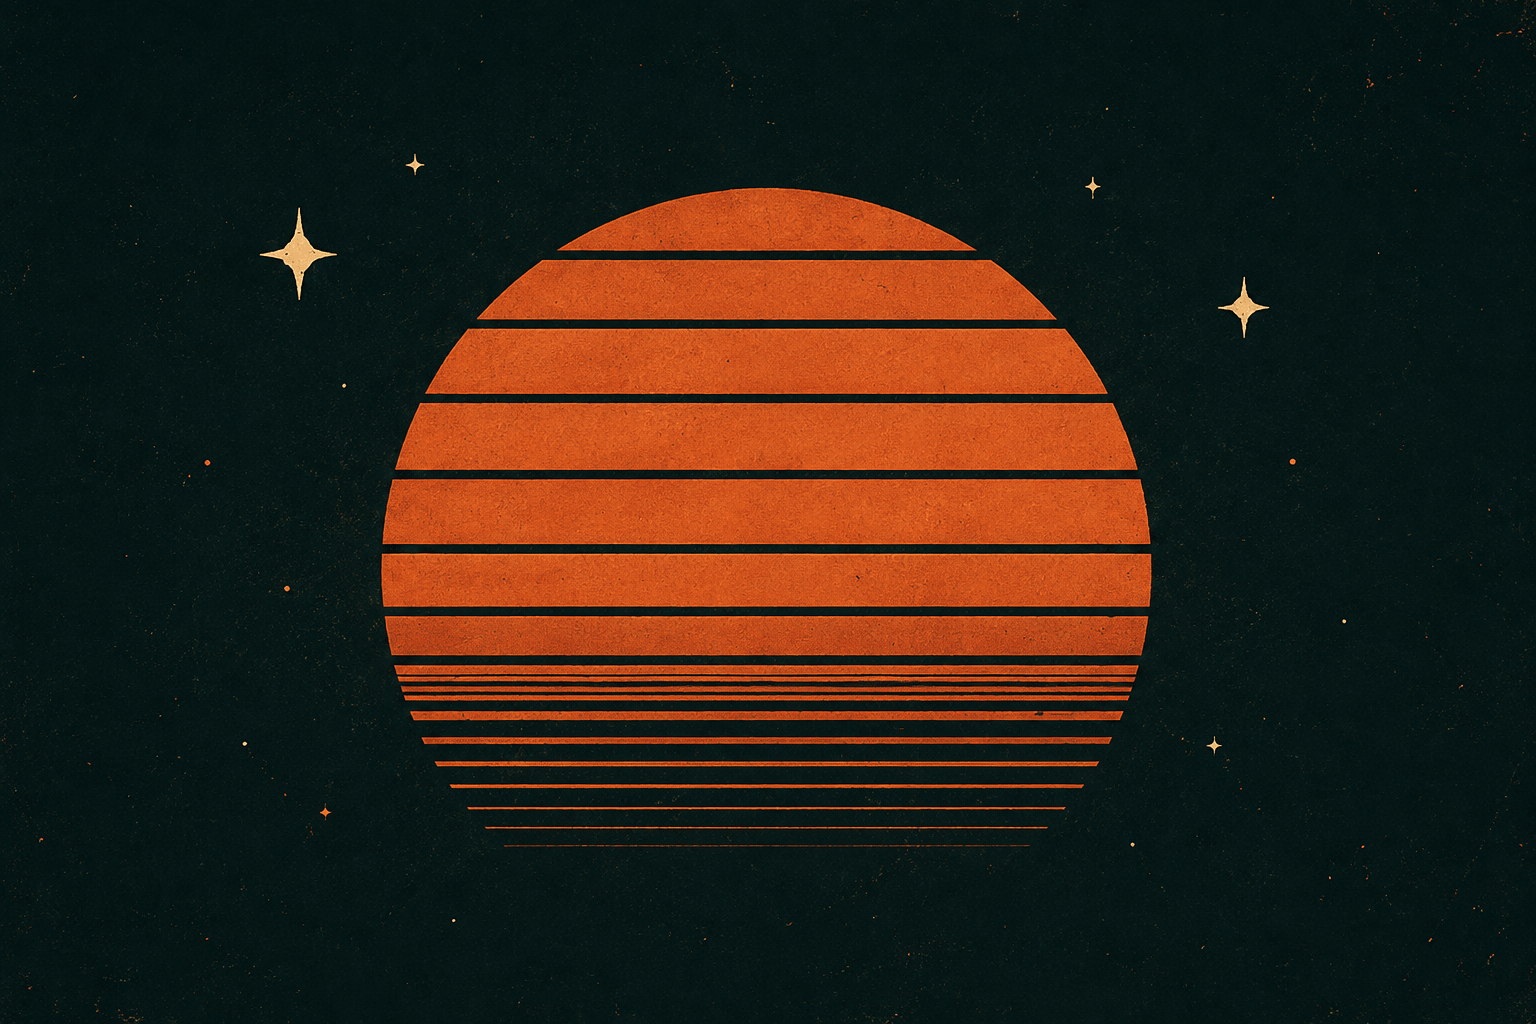
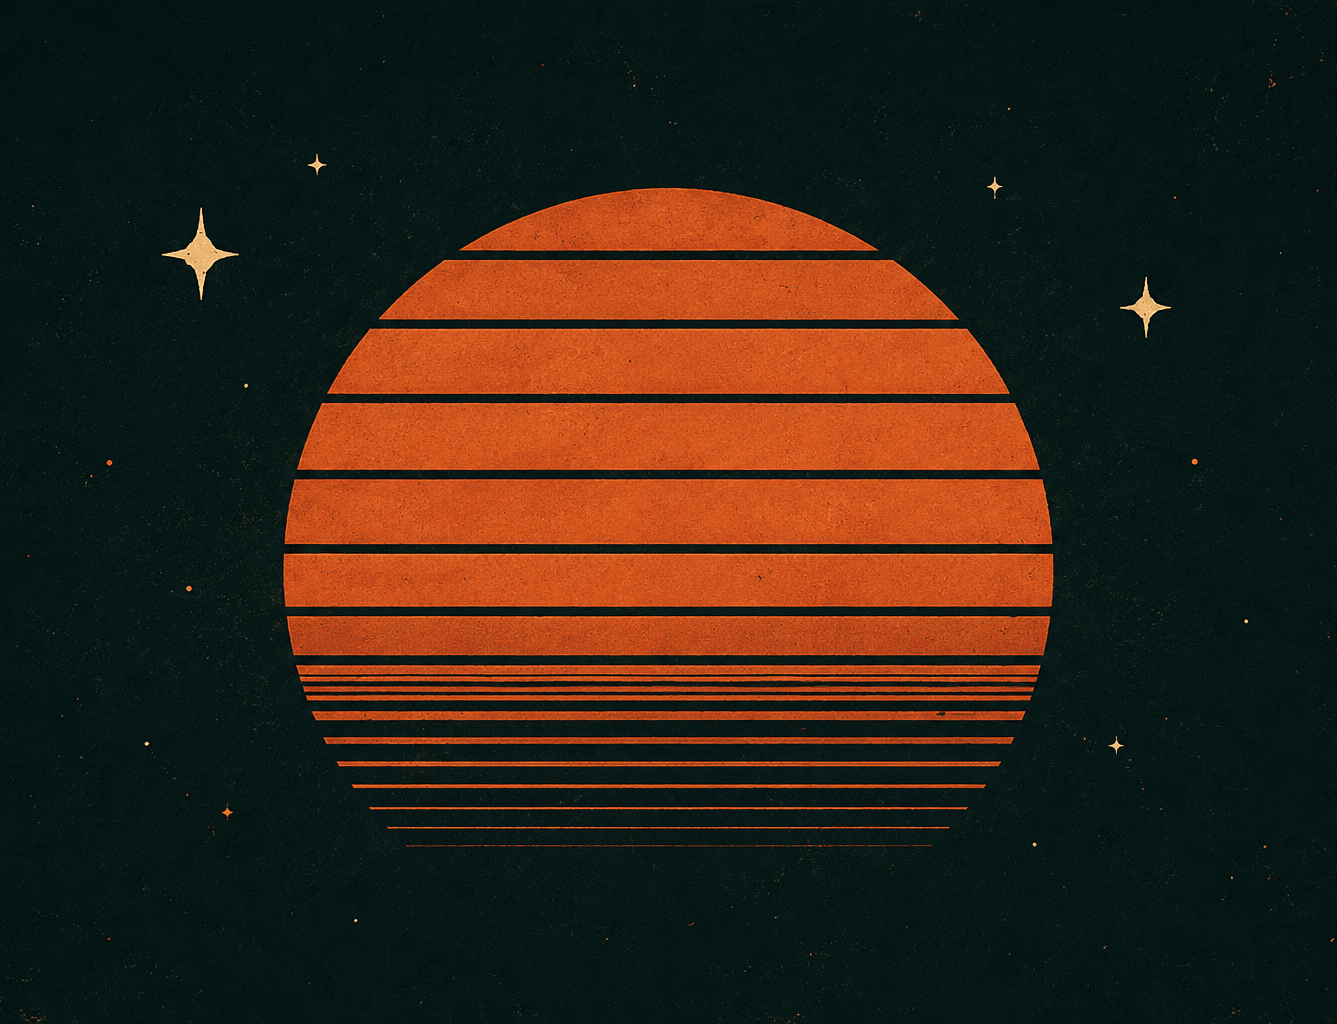
Enhance AssistantPortrait with animations for speaking and idle states, update voice options with more descriptive names, and improve build notes for clarity. Additionally, update character background image.

diff --git a/src/features/assistant/voices.ts b/src/features/assistant/voices.ts
@@ -60,22 +60,27 @@ export const ASSISTANT_VOICE_OPTIONS: AssistantVoiceOption[] = [
     },
     {
         id: 'fa049bec789c4968864a85e53dd68364',
-        name: 'Warren Buffett',
+        name: 'Stock Market Analyst',
         characterImage: warrenBuffettCharacter,
     },
     {
         id: 'fad5a5a6770e47019f566b8f8c0ff609',
-        name: 'The Joker',
+        name: 'Clown',
         characterImage: theJokerCharacter,
     },
     {
         id: '3ad4d432023c47ee9e6c7805b973630a',
-        name: 'Morgan Freeman',
+        name: 'Audiobook Narrator',
         characterImage: morganFreemanCharacter,
     },
     {
+        id: 'ce9c96291460478ea6851049cb847d73',
+        name: 'Tech Support - Male',
+        characterImage: rohitSharmaCharacter,
+    },
+    {
         id: '0429f2b252464b88b2ab2128f084290c',
-        name: 'Rohit Sharma',
+        name: 'Tech Support - Female',
         characterImage: rohitSharmaCharacter,
     },
     {
@@ -85,7 +90,7 @@ export const ASSISTANT_VOICE_OPTIONS: AssistantVoiceOption[] = [
     },
     {
         id: '2947ec32c7e1479c8ec5628a1fc035f1',
-        name: 'Socrates',
+        name: 'Greek Philosopher',
         characterImage: socratesCharacter,
     },
     {
@@ -115,17 +120,17 @@ export const ASSISTANT_VOICE_OPTIONS: AssistantVoiceOption[] = [
     },
     {
         id: 'e632a33e32b442afb45d52d112d5290f',
-        name: 'Upstanding Citizen',
+        name: 'Gangster',
         characterImage: upstandingCitizenCharacter,
     },
     {
         id: '929adc39f2f04ae78090589ffbf79f65',
-        name: 'Taylor Swift',
+        name: 'Rap Artist',
         characterImage: taylorSwiftCharacter,
     },
     {
         id: '75e451f629a44984a2b54c26de2f9826',
-        name: 'Steve Harvey',
+        name: 'Game Show Host',
         characterImage: steveHarveyCharacter,
     },
     {
@@ -135,7 +140,7 @@ export const ASSISTANT_VOICE_OPTIONS: AssistantVoiceOption[] = [
     },
     {
         id: 'd75c270eaee14c8aa1e9e980cc37cf1b',
-        name: 'Peter Griffin',
+        name: 'A Family Guy',
         characterImage: peterGriffinCharacter,
     },
     {

diff --git a/src/app/globals.css b/src/app/globals.css
@@ -102,6 +102,16 @@ a {
     border-color: #50d678;
 }
 
+.assistant-portrait-image-idle {
+    animation: assistant-portrait-idle 4.5s ease-in-out infinite;
+    transform-origin: center bottom;
+}
+
+.assistant-portrait-image-speaking {
+    animation: assistant-portrait-image-speaking 800ms ease-in-out infinite;
+    transform-origin: center bottom;
+}
+
 .now-playing-marquee {
     animation: now-playing-marquee 10s linear infinite;
 }
@@ -131,6 +141,30 @@ a {
     }
 }
 
+@keyframes assistant-portrait-idle {
+    0%,
+    100% {
+        transform: translateY(8px) scale(1);
+    }
+
+    50% {
+        transform: translateY(4px) scale(1.012);
+    }
+}
+
+@keyframes assistant-portrait-image-speaking {
+    0%,
+    100% {
+        filter: brightness(1);
+        transform: translateY(8px) scale(1);
+    }
+
+    50% {
+        filter: brightness(1.08);
+        transform: translateY(2px) scale(1.028);
+    }
+}
+
 @keyframes now-playing-marquee {
     0%,
     12% {
@@ -147,6 +181,11 @@ a {
     .assistant-portrait-speaking {
         animation: none;
         box-shadow: 0 0 16px rgb(80 214 120 / 0.45);
+    }
+
+    .assistant-portrait-image-idle,
+    .assistant-portrait-image-speaking {
+        animation: none;
     }
 
     .now-playing-marquee {

diff --git a/src/app/(app)/dashboard/_components/assistant-chat.tsx b/src/app/(app)/dashboard/_components/assistant-chat.tsx
@@ -459,7 +459,11 @@ function AssistantPortrait({
                     key={voice.id}
                     src={voice.characterImage}
                     alt={`${voice.name} assistant portrait`}
-                    className="h-full w-full object-contain object-bottom"
+                    className={`h-full w-full object-contain object-bottom ${
+                        isSpeaking
+                            ? 'assistant-portrait-image-speaking'
+                            : 'assistant-portrait-image-idle'
+                    }`}
                     sizes="(min-width: 1024px) 340px, 100vw"
                     priority
                 />
